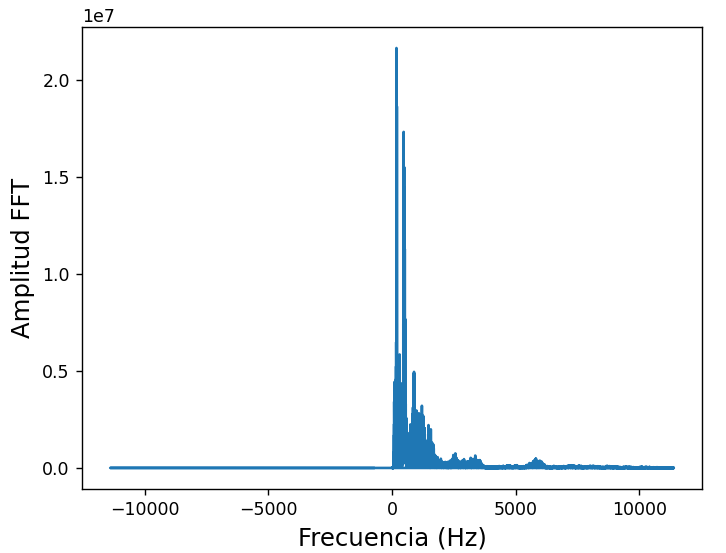
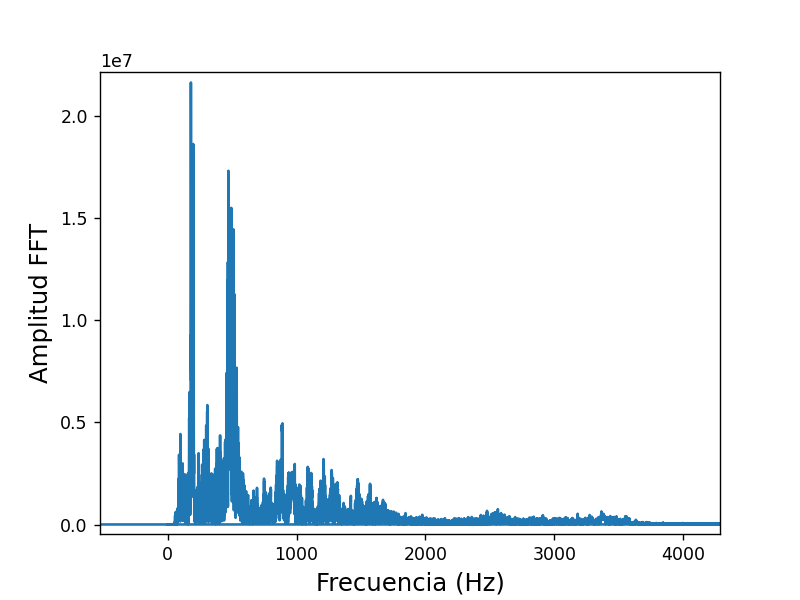
resize y zoom

Changed region(s): [[0.0, 0.0, 0.9697, 1.0]]

diff --git a/documentacion.md b/documentacion.md
@@ -38,15 +38,15 @@ A continuación se presentan los gráficos de ondas de sonido para cada particip
 
 #### Jean Marco Rojas
 
-![grafico jean marco](https://github.com/JeanMarcoRU/202201-IC7602-Autrum/blob/main/scripts/data/output/rec_jeanmarco/jeanmarcoGrafico.png)
+<img src="https://github.com/JeanMarcoRU/202201-IC7602-Autrum/blob/main/scripts/data/output/rec_jeanmarco/jeanmarcoGrafico.png" width=250 height=250>
 
 #### Alonso Obando
 
-![gráfico de alonso](https://github.com/JeanMarcoRU/202201-IC7602-Autrum/blob/main/scripts/data/output/rec_alonso/grafico1.png)
+<img src="https://github.com/JeanMarcoRU/202201-IC7602-Autrum/blob/main/scripts/data/output/rec_alonso/grafico1.png" width=250 height=250>
 
 #### Esteban Cruz
 
-![gráfico esteban el rico](https://github.com/JeanMarcoRU/202201-IC7602-Autrum/blob/main/scripts/data/output/rec_esteban/espectro%20esteban.png)
+<img src="https://github.com/JeanMarcoRU/202201-IC7602-Autrum/blob/main/scripts/data/output/rec_esteban/espectro%20esteban.png" width=250 height=250>
 
 En estos gráficos se logra apreciar que cuando se pronuncian cada una de las 3 palabras elegidas ("hola mundo redes"), se presenta un pico en la cantidad y potencia registrada de las ondas de sonido, siendo posible identificar estos 3 picos en cada uno de los gráficos de los integrantes.
 
@@ -56,15 +56,15 @@ A continuación se presentan los gráficos de armónicos para cada participante 
 
 #### Jean Marco Rojas
 
-![grafico jean marco](https://github.com/JeanMarcoRU/202201-IC7602-Autrum/blob/main/scripts/data/output/rec_jeanmarco/jeanmarcoFFT.png)
+<img src="https://github.com/JeanMarcoRU/202201-IC7602-Autrum/blob/main/scripts/data/output/rec_jeanmarco/jeanmarcoFFT.png" width=250 height=250>
 
 #### Alonso Obando
 
-![gráfico de alonso](https://github.com/JeanMarcoRU/202201-IC7602-Autrum/blob/main/scripts/data/output/rec_alonso/grafico2.png)
+<img src="https://github.com/JeanMarcoRU/202201-IC7602-Autrum/blob/main/scripts/data/output/rec_alonso/grafico2.png" width=250 height=250>
 
 #### Esteban Cruz
 
-![gráfico esteban el rico](https://github.com/JeanMarcoRU/202201-IC7602-Autrum/blob/main/scripts/data/output/rec_esteban/armónicos%20esteban.png)
+<img src="https://github.com/JeanMarcoRU/202201-IC7602-Autrum/blob/main/scripts/data/output/rec_esteban/armónicos%20esteban.png" width=250 height=250>
 
 ## Conclusión
 
